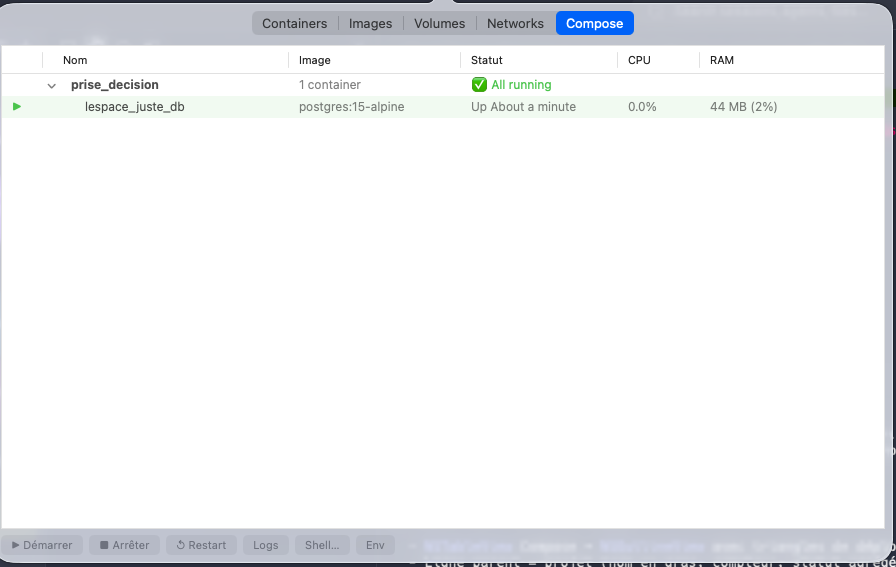
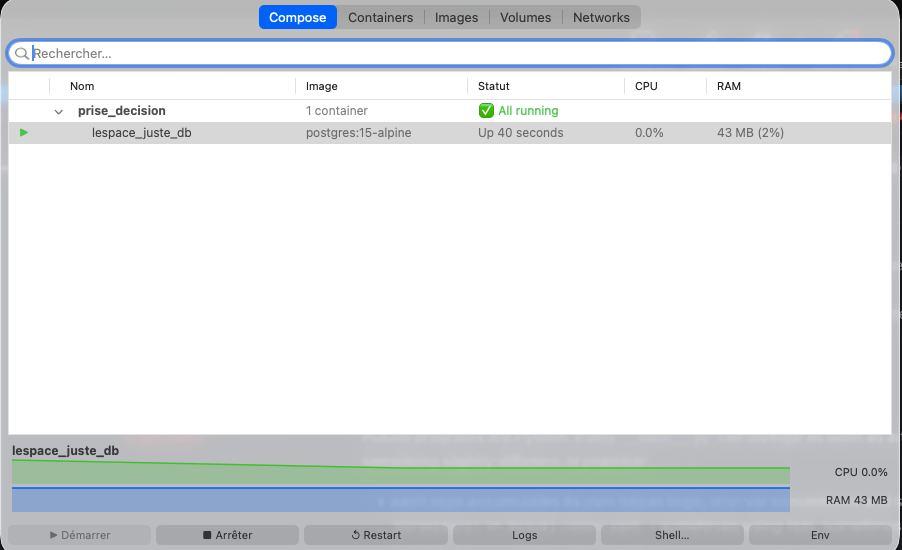
docs: update README + CHANGELOG for v1.9.2

Changed region(s): [[0.0, 0.0, 1.0, 1.0]]

diff --git a/README.md b/README.md
@@ -28,7 +28,7 @@ macOS menu bar app to manage [Colima](https://github.com/abiosoft/colima) + [Por
 
 ![Settings](docs/screenshot-settings.png)
 
-![macOS 13+](https://img.shields.io/badge/macOS-13%2B-blue) ![Apple Silicon](https://img.shields.io/badge/Apple%20Silicon-M1%2FM2%2FM3-green) ![Swift](https://img.shields.io/badge/Swift-5.9-orange) ![v1.9.0](https://img.shields.io/badge/version-1.9.0-informational)
+![macOS 13+](https://img.shields.io/badge/macOS-13%2B-blue) ![Apple Silicon](https://img.shields.io/badge/Apple%20Silicon-M1%2FM2%2FM3-green) ![Swift](https://img.shields.io/badge/Swift-5.9-orange) ![v1.9.2](https://img.shields.io/badge/version-1.9.2-informational)
 
 ---
 
@@ -63,7 +63,7 @@ macOS menu bar app to manage [Colima](https://github.com/abiosoft/colima) + [Por
 - **Copy container ID** — one click copies the full container ID to clipboard
 - **In-app logs viewer** — floating window streams `docker logs -f` inline; follow/stop toggle, clear button, 5 000-line cap
 - **Networks tab** — lists Docker networks (driver, scope); prune unused networks
-- **Compose tab** — groups containers by Docker Compose project; expandable rows with per-container details (status, CPU%, RAM); action bar and right-click context menu on each container
+- **Compose tab** — default tab; groups containers by Docker Compose project; search field; expandable rows with per-container details (status, CPU%, RAM) + sparklines; action bar and right-click context menu on each container
 - **Polling interval presets** — Rapide (2 s) / Normal (5 s, default) / Lent (15 s) configurable in Settings
 - **Compact mode** — optionally show running container count next to the menu bar icon (`▶ N`)
 - **Disk resize** — resize Colima disk from Settings without CLI

diff --git a/CHANGELOG.md b/CHANGELOG.md
@@ -1,5 +1,14 @@
 # Changelog
 
+## v1.9.2 — 2026-05-22
+
+### Improvements
+
+- **Compose tab** — now the first/default tab; search field filters by project, container name, or image; CPU/RAM sparklines appear when a running container is selected
+- Compose selection preserved across polling refreshes (expansion state and row highlight maintained)
+
+---
+
 ## v1.9.0 — 2026-05-22
 
 ### New features
